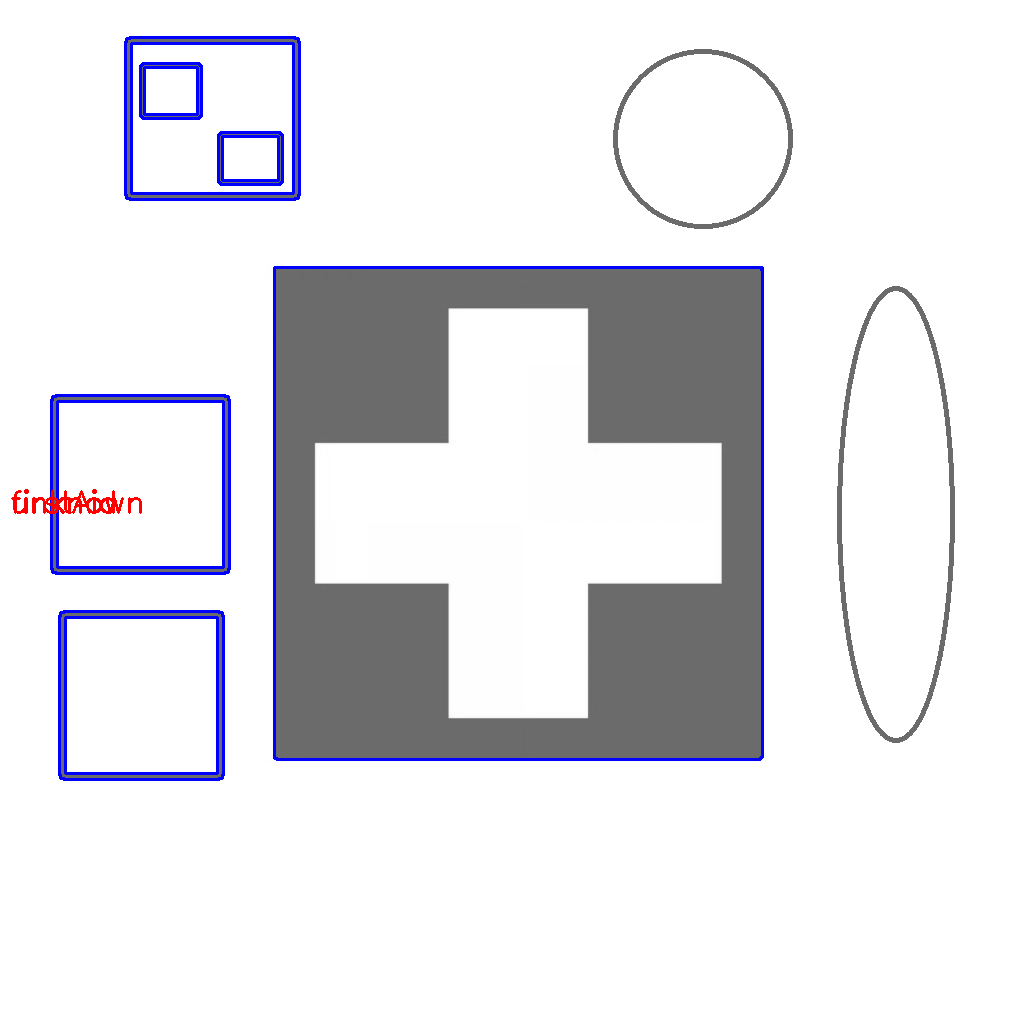
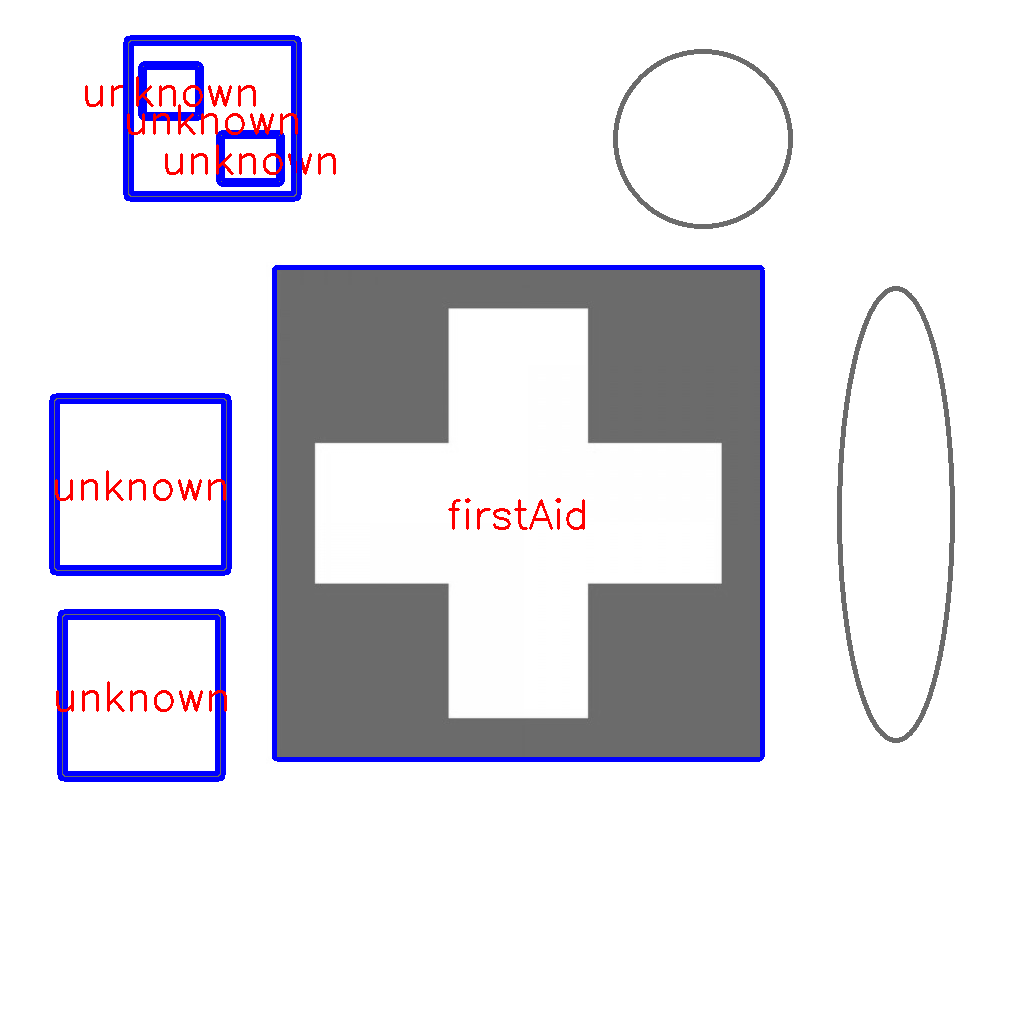
improving writeLabel and drawContour in classify_sign

diff --git a/lib/generate-assets.ts b/lib/generate-assets.ts
@@ -43,8 +43,8 @@ async function generateSignPatterns(): Promise<string> {
   const promises: Promise<string>[] = signPatterns
     .map(({ name, filename }) => generateSingleSignPattern(name, filename));
 
-  const signPatternArrayString = "" + 
-`const std::vector<const SignPattern> signPatterns = {
+  const signPatternArrayString = "" +
+    `const std::vector<const SignPattern> signPatterns = {
   ${signPatterns.map(({ name }) => name).join(",\n  ")}
 };`;
 
@@ -70,7 +70,7 @@ async function generateSingleSignPattern(
   console.log(`  ⚙ generating "${name}"`);
   const indexValuesBeforeLineBreak = width * signPatternsValuesPerPixel;
   const arr: string[] = [];
-  for (let i = 0; i < image.byteLength; i+=4) {
+  for (let i = 0; i < image.byteLength; i += 4) {
     const v = image[i];
     arr.push(`${v}`.padStart(3, " "));
     if ((i + signPatternsValuesPerPixel) % indexValuesBeforeLineBreak == 0) {

diff --git a/lib/src/cpp/classify_sign.cpp b/lib/src/cpp/classify_sign.cpp
@@ -6,13 +6,30 @@
 
 void drawContour(cv::Mat &dst, std::vector<cv::Point2i> contour)
 {
+    // TODO add second color for constrast
+    // TODO increase thickness
+    int thickness = std::max((int) round(2.6 / 1000 * dst.rows), 2);
+
     std::vector<std::vector<cv::Point2i>> contours = {contour};
-    cv::drawContours(dst, contours, 0, cv::Scalar(0, 0, 255, 255), 2, cv::LINE_8);
+    cv::Scalar color = cv::Scalar(0, 0, 255, 255);
+    cv::drawContours(dst, contours, 0, color, thickness, cv::LINE_8);
 }
 
-void writeLabel(cv::Mat &dst, std::string label)
+void writeLabel(cv::Mat &dst, std::string label, std::vector<cv::Point2i> contour)
 {
-    cv::putText(dst, label, cv::Point2i(10, dst.rows / 2), cv::FONT_HERSHEY_SIMPLEX, 1, cv::Scalar(255, 0, 0, 255), 2);
+    // TODO add second color for constrast
+    // TODO increase thickness
+    int fontFace = cv::FONT_HERSHEY_SIMPLEX;
+    double fontScale = std::max(1.3 / 1000 * dst.rows, 1.0);
+    int thickness = fontScale * 2;
+    int baseline = 0;
+    cv::Size textSize = cv::getTextSize(label, fontFace, fontScale, thickness, &baseline);
+
+    cv::Rect boundingBox = cv::boundingRect(contour);
+    int x = boundingBox.x + (boundingBox.width - textSize.width) / 2;
+    int y = boundingBox.y + (boundingBox.height + textSize.height) / 2;
+    cv::Scalar color = cv::Scalar(255, 0, 0, 255);
+    cv::putText(dst, label, cv::Point2i(x, y), fontFace, fontScale, color, thickness);
 }
 
 // TODO how to return sign_class
@@ -26,7 +43,7 @@ void classifySign(cv::Mat &cropped, cv::Mat &dst, std::vector<cv::Point2i> conto
     // TODO rotate 4 times
     // TODO compare only with quadraliteral signs
 
-    // TODO position sign class label
+    // check if sign patterns are matching
     SignPattern signPattern = UNKNOWN_SIGN_PATTERN;
     for (size_t i = 0; i < signPatterns.size(); i++)
     {
@@ -37,8 +54,9 @@ void classifySign(cv::Mat &cropped, cv::Mat &dst, std::vector<cv::Point2i> conto
             break;
         }
     }
-    printf("detected type: %s\n", signPattern.name.c_str());
 
+    // mark matching result
+    printf("detected type: %s\n", signPattern.name.c_str());
     drawContour(dst, contour);
-    writeLabel(dst, signPattern.name);
+    writeLabel(dst, signPattern.name, contour);
 }

diff --git a/README.md b/README.md
@@ -5,11 +5,13 @@ This project uses the OpenCV for Emscripten build script from https://github.com
 ## test data
 
 processing (correct sign detection):
+
+- fire-extinguisher-1_real-reflection-1.png
 - fire-extinguisher-1_real-skewed.png
 - fire-extinguisher-1_real.png
 - fire-extinguisher-1_synthetic.png
-- fire-extinguisher-2_synthetic.png
-- fire-extinguisher-2_synthetic2.png
+- fire-extinguisher-2_synthetic-1.png
+- fire-extinguisher-2_synthetic-2.png
 - first-aid_synthetic-white-bg-modified.png
 - first-aid_synthetic-white-bg.png
 - first-aid_synthetic.png
@@ -17,10 +19,9 @@ processing (correct sign detection):
 processing (wrong sign detection):
 
 - emergency-exit.png
-- fire-extinguisher-1_real-reflection-1.png
 - fire-extinguisher-1_real-reflection-2.png
-- fire-extinguisher-2_real-modified.png
-- fire-extinguisher-2_real-modified2.png
+- fire-extinguisher-2_real-modified-1.png
+- fire-extinguisher-2_real-modified-2.png
 - fire-extinguisher-2_real.png
 
 failing:
